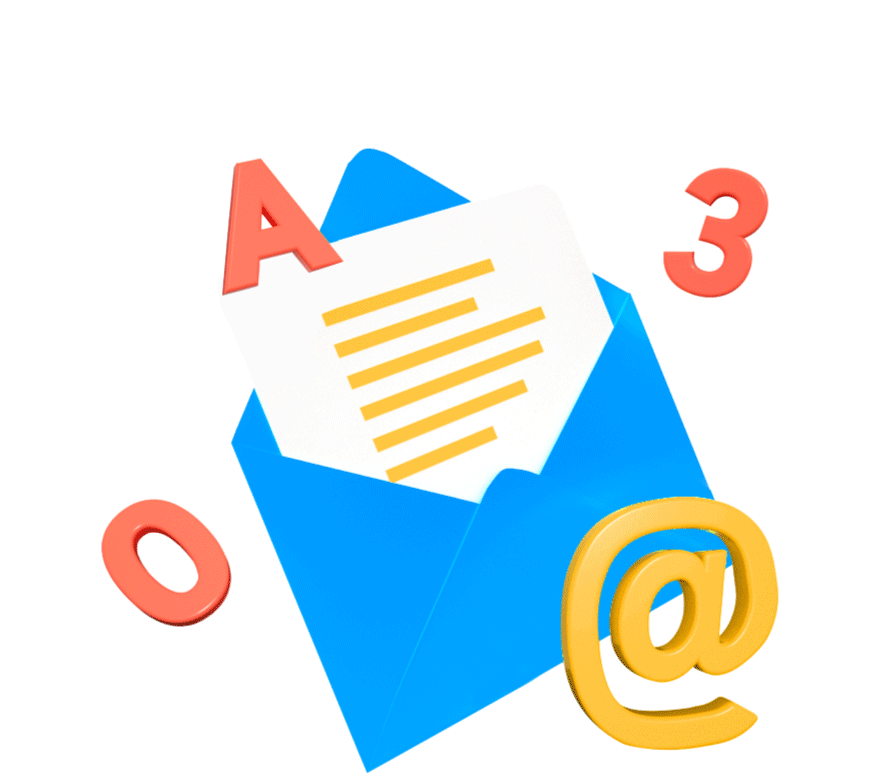
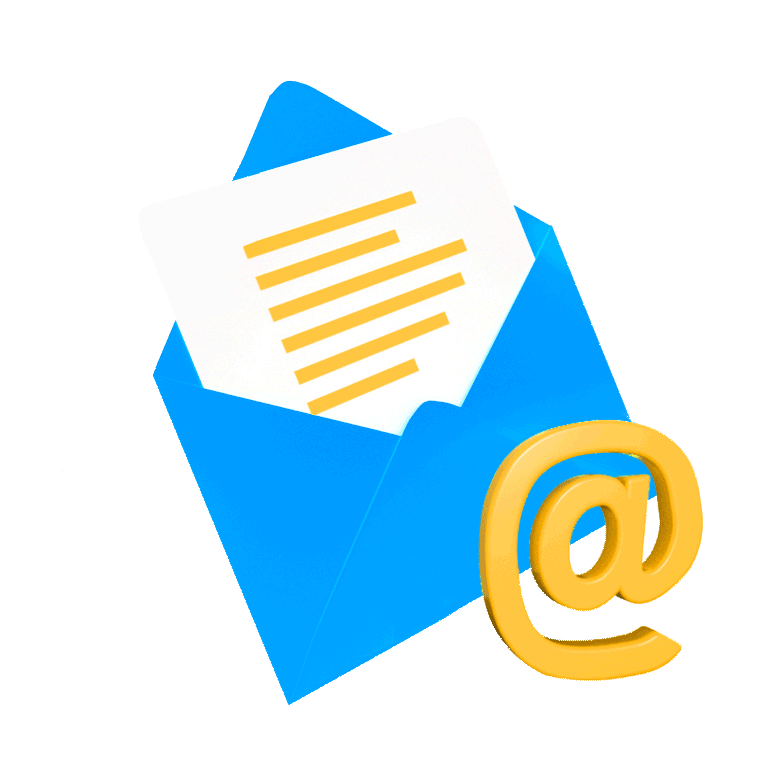
gif

Changed region(s): [[0.0927, 0.0927, 0.9266, 1.0]]

diff --git a/zoology.html b/zoology.html
@@ -63,7 +63,7 @@
         <p>Oz生态目前由博彩应用Ozbet、生态通证OZC与TOTO、支付系统aupay构成。</p>
       </div>
       <div class="zoology_module_right">
-        <img class="page_gif" src="/ozfund/images/zoology/gif/module1.gif" alt="">
+        <img class="page_gif" src="/ozfund/images/zoology/gif/module1.png" alt="" gitTime="5">
       </div>
     </div>
   </div>
@@ -71,7 +71,7 @@
   <div class="zoology_module_two">
     <div class="w">
       <div class="zoology_module_left pc_show">
-        <img class="page_gif" src="/ozfund/images/zoology/gif/module2.gif" alt="">
+        <img class="page_gif" src="/ozfund/images/zoology/gif/module2.png" alt="" gitTime="5">
       </div>
       <div class="zoology_module_right">
         <h3 class="min_tit">Ozbet</h3>
@@ -79,7 +79,7 @@
         <button>点击进入Ozbet<img src="/ozfund/images/home/arrow2.png" alt=""></button>
       </div>
       <div class="zoology_module_left mobile_show">
-        <img class="page_gif" src="/ozfund/images/zoology/gif/module2.gif" alt="">
+        <img class="page_gif" src="/ozfund/images/zoology/gif/module2.png" alt="" gitTime="5">
       </div>
     </div>
   </div>
@@ -90,7 +90,7 @@
         <h3 class="min_tit">OZC</h3>
         <p>OZC即Ozcoin，是一种发行于Oz生态的筹码，与多个美元稳定币锚定，可以用于Ozbet.one投注娱乐或生态内的各种服务购买和应用消费。持有Ozcoin是提升Oz生态会员等级并享受多种优惠的必要条件，使用OZC进行投注则可以参与TOTO挖矿。OZC可以随时在Ozbet.one上进行美元稳定币的承兑。目前OZC可以在Oz Fund基金会（购买）及博彩应用Ozbet.one上获取。</p>
       </div>
-      <img class="page_gif" src="/ozfund/images/zoology/gif/module3.gif" alt="">
+      <img class="page_gif" src="/ozfund/images/zoology/gif/module3.png" alt="" gitTime="5">
       <div class="zoology_module_tit">
         <h3 class="min_tit">TOTO</h3>
         <p>TOTO是Oz生态中的会员通证，可以通过质押OZC，或使用OZC下注的方式挖矿获得。TOTO可以在多种博彩场景中应用，同时也作为Oz生态的管理通证用于平台治理。TOTO有多种销毁机制，每天Ozbet.one平台利润的一部分会用于对TOTO的回购销毁，用户在博彩游戏中使用TOTO投注也会触发TOTO的多种销毁机制。目前TOTO在Ozfund基金会开启了预售，价格为1 TOTO= 0.1 BUSD。</p>
@@ -106,7 +106,7 @@
         <span>auPay支付系统是面向企业的加密资产清算中心，也是加密货币交易与结算业务的基础设施，可以为企业加密资产的转入转出以及管理提供完善解决方案。</span>
       </div>
       <div class="zoology_module_right">
-        <img class="page_gif" src="/ozfund/images/zoology/gif/module4.gif" alt="">
+        <img class="page_gif" src="/ozfund/images/zoology/gif/module4.png" alt="" gitTime="5">
       </div>
     </div>
   </div>

diff --git a/dynamic.html b/dynamic.html
@@ -69,7 +69,7 @@
         </p>
       </div>
       <div class="dynamic_module_right">
-        <img class="page_gif" src="/ozfund/images/dynamic/gif/module1.gif" alt="">
+        <img class="page_gif" src="/ozfund/images/dynamic/gif/module1.png" alt="" gitTime="6">
       </div>
     </div>
   </div>
@@ -80,21 +80,21 @@
       <p class="dynamic_module_tit_min">动态简介动态简介动态简介动态简介动态简介动态简介动态简介动态简介动态简介动态简介动态简介动态简介动态简介动态简介动态简介动态简介动态简介动态简介</p>
       <ul class="dynamic_ul">
         <li>
-          <img class="page_gif" src="/ozfund/images/dynamic/gif/ul1.gif" alt="">
+          <img class="page_gif" src="/ozfund/images/dynamic/gif/ul1.png" alt="" gitTime="5">
           <div class="dynamic_ul_txt">
             <p>DAO</p>
             <span>社区的运营与维护是区块链应用发展过程中必不可少的环节，Oz生态希望能够从用户侧得到真实的反馈，为大家提供极致的链上娱乐服务。因此，Ozfund基金会将以会员等级和TOTO持有量为基础扩展DAO体系，让更多社区成员加入到对通证的发行、销毁，平台活动举办及重要决策制定的投票中来。平台的收益也会进一步根据DAO成员贡献情况进行共享。</span>
           </div>
         </li>
         <li>
-          <img class="page_gif" src="/ozfund/images/dynamic/gif/ul2.gif" alt="">
+          <img class="page_gif" src="/ozfund/images/dynamic/gif/ul2.png" alt="" gitTime="5">
           <div class="dynamic_ul_txt">
             <p>周边产业联动</p>
             <span>线上娱乐和投注之外，高端消费展会、酒旅等都是Oz生态的重要组成，用户可以通过手机端、用户秘钥、身份卡等多种形式参与到全球范围内所有与auPay签约合作的赌场商户及娱乐平台的服务与消费中。Oz生态也会进一步完善赌场、酒店、贵宾厅、度假村、私人俱乐部、游艇会的高端会员体系，让Oz用户享受客服中心7x24小时的多语种线上服务，高等级会员还将拥有7x24小时的线上私人助理等。</span>
           </div>
         </li>
         <li>
-          <img class="page_gif" src="/ozfund/images/dynamic/gif/ul3.gif" alt="">
+          <img class="page_gif" src="/ozfund/images/dynamic/gif/ul3.png" alt="" gitTime="5">
           <div class="dynamic_ul_txt">
             <p>目前Oz生态正在推进合作的项目</p>
             <span>
@@ -169,7 +169,7 @@
           </ul>
         </div>
         <div class="dynamic_module_right">
-          <img class="page_gif" src="/ozfund/images/dynamic/gif/qa.gif" alt="">
+          <img class="page_gif" src="/ozfund/images/dynamic/gif/qa.png" alt="" gitTime="5">
         </div>
       </div>
     </div>

diff --git a/purchase.html b/purchase.html
@@ -65,7 +65,7 @@
           <p>OZC与美元稳定币USDT、USDC、BUSD 1:1 锚定，是Oz博彩生态中的筹码，可以用于投注。随着Oz生态的拓展，OZC也将与众多链上项目合作，完善资产管理机制。</p>
         </div>
         <div class="purchase_module_right">
-          <img class="page_gif" src="/ozfund/images/purchase/gif/module1.gif" alt="">
+          <img class="page_gif" src="/ozfund/images/purchase/gif/module1.png" alt="" gitTime="6">
         </div>
       </div>
       <div class="conversion">
@@ -96,7 +96,7 @@
   <div class="purchase_module_two">
     <div class="w">
       <div class="purchase_module_left pc_show">
-        <img class="page_gif" src="/ozfund/images/purchase/gif/module2.gif" alt="">
+        <img class="page_gif" src="/ozfund/images/purchase/gif/module2.png" alt="" gitTime="6">
       </div>
       <div class="purchase_module_right">
         <h3 class="min_tit">质押OZC获得TOTO </h3>
@@ -113,7 +113,7 @@
         </div>
       </div>
       <div class="purchase_module_left mobile_show">
-        <img class="page_gif" src="/ozfund/images/purchase/gif/module2.gif" alt="">
+        <img class="page_gif" src="/ozfund/images/purchase/gif/module2.png" alt="" gitTime="6">
       </div>
     </div>
   </div>
@@ -167,14 +167,14 @@
           </p>
         </div>
         <div class="purchase_module_img">
-          <img class="page_gif" src="/ozfund/images/purchase/gif/module3.gif" alt="">
+          <img class="page_gif" src="/ozfund/images/purchase/gif/module3.png" alt="" gitTime="5">
         </div>
       </div>
     </div>
     <div class="purchase_module_three">
       <div class="w">
         <div class="purchase_module_img pc_show">
-          <img class="page_gif" src="/ozfund/images/purchase/gif/module4.gif" alt="">
+          <img class="page_gif" src="/ozfund/images/purchase/gif/module4.png" alt="" gitTime="5">
         </div>
         <div class="purchase_module_txt">
           <h3 class="min_tit">TOTO的使用与流通</h3>
@@ -186,7 +186,7 @@
           </p>
         </div>
         <div class="purchase_module_img mobile_show">
-          <img class="page_gif" src="/ozfund/images/purchase/gif/module4.gif" alt="">
+          <img class="page_gif" src="/ozfund/images/purchase/gif/module4.png" alt="" gitTime="5">
         </div>
       </div>
     </div>
@@ -227,7 +227,7 @@
           </ul>
         </div>
         <div class="allocation_right">
-          <img class="page_gif" src="/ozfund/images/purchase/gif/module5.gif" alt="">
+          <img class="page_gif" src="/ozfund/images/purchase/gif/module5.png" alt="" gitTime="4">
         </div>
       </div>
     </div>

diff --git a/index.html b/index.html
@@ -73,7 +73,7 @@
   <div class="home_module_two">
     <div class="w">
       <div class="home_module_left pc_show">
-        <img class="page_gif" src="/ozfund/images/home/gif/moduleTwo.png" alt="">
+        <img class="page_gif" src="/ozfund/images/home/gif/moduleTwo.png" alt="" gitTime="2">
       </div>
       <div class="home_module_right">
         <h3>关于Ozfund基金会</h3>
@@ -81,7 +81,7 @@
         <button>查看白皮书<img src="/ozfund/images/home/arrow2.png" alt=""></button>
       </div>
       <div class="home_module_left mobile_show">
-        <img class="page_gif" src="/ozfund/images/home/gif/moduleTwo.png" alt="">
+        <img class="page_gif" src="/ozfund/images/home/gif/moduleTwo.png" alt="" gitTime="2">
       </div>
     </div>
   </div>
@@ -95,7 +95,7 @@
       <div class="module_card">
         <div class="card_i">
           <div class="card_i_top">
-            <img class="card_i_top_img page_gif" src="/ozfund/images/home/gif/ozc1.png" alt="">
+            <img class="card_i_top_img page_gif" src="/ozfund/images/home/gif/ozc1.png" alt="" gitTime="5">
             <i class="card_i_top_foundation"></i>
           </div>
           <ul class="card_data">
@@ -110,7 +110,7 @@
         </div>
         <div class="card_i">
           <div class="card_i_top">
-            <img class="card_i_top_img page_gif" src="/ozfund/images/home/gif/toto1.png" alt="">
+            <img class="card_i_top_img page_gif" src="/ozfund/images/home/gif/toto1.png" alt="" gitTime="5">
             <i class="card_i_top_foundation"></i>
           </div>
           <ul class="card_data">
@@ -155,7 +155,7 @@
   <div class="home_module_five">
     <div class="w">
       <div class="home_module_left">
-        <img class="page_gif" src="/ozfund/images/home/gif/module5.png" alt="">
+        <img class="page_gif" src="/ozfund/images/home/gif/module5.png" alt="" gitTime="4">
       </div>
       <div class="home_module_right">
         <img src="/ozfund/images/home/gif/module51.gif" alt="" class="home_module_right_gif">

diff --git a/presell.html b/presell.html
@@ -66,7 +66,7 @@
           <p>TOTO是Oz生态中的会员通证，可以在多种博彩场景中应用，同时也作为Oz生态的管理通证用于平台治理。在Ozbet上线后，TOTO将能够用于平台收益的共享，多种销毁机制也将维持TOTO的通缩。</p>
         </div>
         <div class="presell_module_right">
-          <img class="page_gif" src="/ozfund/images/presell/gif/module1.gif" alt="">
+          <img class="page_gif" src="/ozfund/images/presell/gif/module1.png" alt="" gitTime="6">
         </div>
       </div>
       <div class="presell_time_wrap">
@@ -76,7 +76,7 @@
             <div class="presell_time"><p>0</p><i>d</i><p>0</p><i>h</i><p>0</p><i>m</i></div>
           </div>
           <div class="presell_time_info_right">
-            <img class="page_gif" src="/ozfund/images/presell/gif/module2.gif" alt="">
+            <img class="page_gif" src="/ozfund/images/presell/gif/module2.png" alt="" gitTime="5">
           </div>
         </div>
       </div>
@@ -119,7 +119,7 @@
         </ul>
       </div>
       <div class="presell_module_right">
-        <img class="page_gif" src="/ozfund/images/presell/gif/module3.gif" alt="">
+        <img class="page_gif" src="/ozfund/images/presell/gif/module3.png" alt="" gitTime="5">
       </div>
     </div>
   </div>
@@ -128,7 +128,7 @@
     <div class="w">
       <div class="presell_module_three_info">
         <p>Trade Anything. <br> No Registration,No Hassle.</p>
-        <img class="page_gif" src="/ozfund/images/presell/gif/module4.gif" alt="">
+        <img class="page_gif" src="/ozfund/images/presell/gif/module4.png" alt="" gitTime="5">
       </div>
     </div>
   </div>

diff --git a/progress.html b/progress.html
@@ -62,7 +62,7 @@
         <h3>时间进程</h3>
       </div>
       <div class="progress_module_right">
-        <img class="page_gif" src="/ozfund/images/progress/gif/module1.gif" alt="">
+        <img class="page_gif" src="/ozfund/images/progress/gif/module1.png" alt="" gitTime="6">
       </div>
     </div>
   </div>
